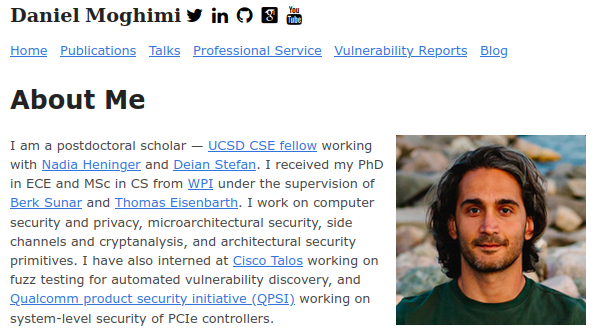
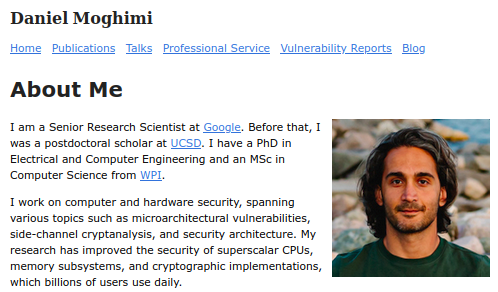
x

diff --git a/index.html b/index.html
@@ -199,7 +199,7 @@ integrity="sha384-wvfXpqpZZVQGK6TAh5PVlGOfQNHSoD2xbE+QkPxCAFlNEevoEH3Sl0sibVcOQV
   <main>
 <h1 id="about-me">About Me</h1>
 <p><a href="images/profile.jpg"><img src="images/profile.jpg" alt="profile"></a></p>
-<p>I am a Senior Research Scientist at Google. Before that, I was a postdoctoral scholar at UCSD. I have a PhD in ECE and an MSc in CS from WPI.</p>
+<p>I am a Senior Research Scientist at <a href="https://www.google.com/">Google</a>. Before that, I was a postdoctoral scholar at <a href="https://ucsd.edu/">UCSD</a>. I have a PhD in Electrical and Computer Engineering and an MSc in Computer Science from <a href="https://www.wpi.edu/">WPI</a>.</p>
 <p>I work on computer and hardware security, spanning various topics such as microarchitectural vulnerabilities, side-channel cryptanalysis, and security architecture. My research has improved the security of superscalar CPUs, memory subsystems, and cryptographic implementations, which billions of users use daily.</p>
 <hr>
 <h2 id="publications">Publications</h2>
